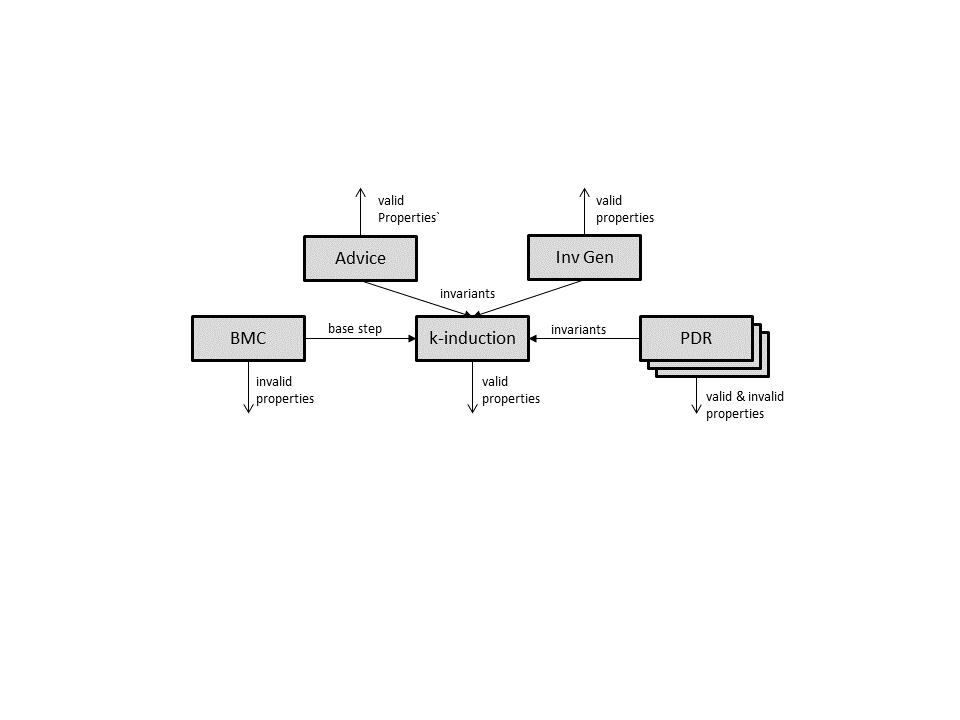
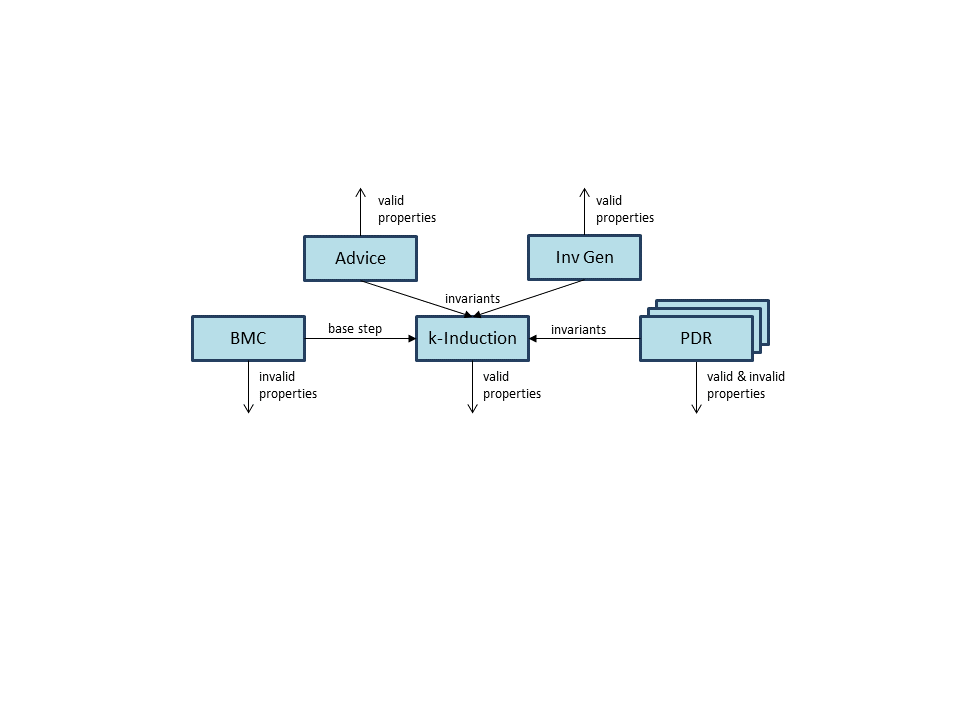
Final revisions

diff --git a/main.tex b/main.tex
@@ -82,7 +82,7 @@ Another important characteristic of \jkind is that is it designed to be integrat
 
 \begin{figure}
   \begin{center}
-    \includegraphics[clip,trim=140 220 100 140,scale=0.6]{engines.png}
+    \includegraphics[clip,trim=140 220 80 140,scale=0.6]{engines.png}
   \end{center}
   \vspace{-2em}
   \caption{\jkind engine architecture}
@@ -95,7 +95,24 @@ Another important characteristic of \jkind is that is it designed to be integrat
 prove properties, mimicking the design of \pkind and \kind 2~\cite{champion2016cav, kahsai2011pdmc}.
 Some engines are directly responsible for proving properties, others aid that effort by generating invariants, and still others are reserved for post-processing of proof or counterexample results. Each engine can be enabled or disabled separately based on the user's needs. The architecture of \jkind allows any engine to broadcast information to the other engines (for example, lemmas, proofs, counterexamples) allowing straightforward integration of new functionality.
 
-The solving engines in \jkind are:  (1) \textbf{Bounded Model Checking (BMC).} The BMC engine performs a standard iterative unrolling of the transition relation to find counterexamples and to serve as the base case of $k$-induction. The BMC engine guarantees that any counterexample it finds is minimal in length. (2) \textbf{$k$-induction.} The $k$-induction engine performs the inductive step of $k$-induction, possibly using invariants generated by other engines. \textbf{Invariant Generation.} The invariant generation engine uses a template-based invariant generation technique~\cite{kahsai2012nfm} using its own $k$-induction loop. (3) \textbf{Property Directed Reachability (PDR).} The PDR engine performs property directed reachability~\cite{een2011fmcad} using the implicit abstraction technique~\cite{cimatti2014tacas}. Unlike BMC and $k$-induction, each property is handled separately by a different PDR sub-engine. %Invariants generated as a side-product of PDR are shared with the $k$-induction process.
+The solving engines in \jkind are show in
+Figure~\ref{fig:engines}. The \textbf{Bounded Model Checking (BMC)}
+engine performs a standard iterative unrolling of the transition
+relation to find counterexamples and to serve as the base case of
+$k$-induction. The BMC engine guarantees that any counterexample it
+finds is minimal in length. The \textbf{$k$-Induction} engine performs
+the inductive step of $k$-induction, possibly using invariants
+generated by other engines. The \textbf{Invariant Generation} engine
+uses a template-based invariant generation
+technique~\cite{kahsai2012nfm} using its own $k$-induction loop. The
+\textbf{Property Directed Reachability (PDR)} engine performs property
+directed reachability~\cite{een2011fmcad} using the implicit
+abstraction technique~\cite{cimatti2014tacas}. Unlike BMC and
+$k$-induction, each property is handled separately by a different PDR
+sub-engine. Finally, the \textbf{Advice} engine produces invariants
+based on previous runs of \jkind as described in the next section.
+
+%Invariants generated as a side-product of PDR are shared with the $k$-induction process.
 
 Invariant sharing between the solvers (shown in Figure~\ref{fig:engines}) is an important part of the architecture.  In our internal benchmarking, we have found that implicit abstraction PDR performs best when operating over a single property at a time and without use of lemmas generated by other approaches.  On the other hand, the invariants generated by PDR and template lemma generation often allow $k$-induction, which operates on all properties in parallel, to substantially reduce the verification time required for models with large numbers of properties.  %As described in Section~\ref{sec:benchmarks}, \jkind\ is competitive with other tools
 
@@ -195,7 +212,7 @@ benchmarks slightly favored \kind2, and in~\cite{cimatti2014tacas}, \nuxmv was t
 %Many of the applications in this section make heavy use of \jkindapi.
 %
 
-(1) The {\em Specification and Analysis of Requirements} (\spear) tool is an open source tool for prototyping and analysis of requirements~\cite{fifarek2017nfm}.  Starting from a set of formalized requirements, \spear uses \jkind to determine whether or not the requirements meet certain {\em properties}.  It uses IVCs to create a traceability matrix between requirements and properties, highlighting unused requirements, over-constrained properties, and other common problems. \spear also uses \jkind with smoothing for test-case generation using the Unique First Cause criteria~\cite{whalen2006issta}.
+(1) The {\em Specification and Analysis of Requirements} (\spear) tool is an open-source tool for prototyping and analysis of requirements~\cite{fifarek2017nfm}.  Starting from a set of formalized requirements, \spear uses \jkind to determine whether or not the requirements meet certain {\em properties}.  It uses IVCs to create a traceability matrix between requirements and properties, highlighting unused requirements, over-constrained properties, and other common problems. \spear also uses \jkind with smoothing for test-case generation using the Unique First Cause criteria~\cite{whalen2006issta}.
 %
 %\spear captures
 %requirements in a way that is backed by the formal semantics of
@@ -213,7 +230,11 @@ benchmarks slightly favored \kind2, and in~\cite{cimatti2014tacas}, \nuxmv was t
 %test case. \spear uses smoothing in \jkind to ensure the resulting
 %test cases are simple and understandable.
 
-(2) The {\em Assume Guarantee Reasoning Environment} (\agree)~\cite{cofer2012nfm,QFCS15:backes,hilt2013} is an open-source compositional verification tool that proves properties of hierarchically-composed models in the Architectural Analysis and Design Language (AADL) language.  %\jkind as the default model checker for AGREE.
+(2) The {\em Assume Guarantee Reasoning Environment} (\agree) tool is
+an open-source compositional verification tool that proves properties
+of hierarchically-composed models in the Architectural Analysis and
+Design Language (AADL) language~\cite{cofer2012nfm,QFCS15:backes,hilt2013}.
+%\jkind as the default model checker for AGREE.
 %
 %\application{Assume Guarantee Reasoning Environment}{Open Source}
 %
@@ -235,19 +256,29 @@ component's contract. \agree also uses \jkind for test-case generation
 from component contracts.
 
 %\application{Static IMPerative AnaLyzer}{Open Source}
-(3) The {\em Static IMPerative AnaLyzer} (\simpal) is a tool for
-performing compositional reasoning over
-software~\cite{wagner2017spin}. \simpal is based on \limp, a \lustre-like imperative language with extensions for control flow elements, global variables, and a syntax for specifying preconditions, postconditions, and global variable interactions of
-preexisting components. \simpal translates \limp programs to an
-equivalent \lustre representation which is passed to \jkind to
-perform assume-guarantee reasoning, reachability, and viability
-analyses.
+(3) The {\em Static IMPerative AnaLyzer} (\simpal) tool is an
+open-source tool for compositional reasoning over
+software~\cite{wagner2017spin}. \simpal is based on \limp, a
+\lustre-like imperative language with extensions for control flow
+elements, global variables, and a syntax for specifying preconditions,
+postconditions, and global variable interactions of preexisting
+components. \simpal translates \limp programs to an equivalent \lustre
+representation which is passed to \jkind to perform assume-guarantee
+reasoning, reachability, and viability analyses.
 %The feedback from these analyses is used to refine the
 %program to ensure that the software functions as intended.
 
-\jkind is also used by two proprietary tools used by product areas within Rockwell Collins.  The first is a {\em Mode Transition Table} verification tool used for the complex state machines which manage flight modes of an aircraft.
-\jkind is used to check properties and generate tests for mode and transition coverage from \lustre models generated from the state machines.
-IVCs are used to establish traceability, i.e. which transitions are covered by which properties.  The second is a {\em Crew Alerting System} MC/DC test-case generation tool for a proprietary DSL used for messages and alerts to airplane pilots.  Smoothing is very important in this context as test cases need to be run on the actual hardware where
+(4) \jkind is also used by two proprietary tools used by product areas
+within Rockwell Collins.  The first is a {\em Mode Transition Table}
+verification tool used for the complex state machines which manage
+flight modes of an aircraft.  \jkind is used to check properties and
+generate tests for mode and transition coverage from \lustre models
+generated from the state machines.  IVCs are used to establish
+traceability, i.e. which transitions are covered by which properties.
+The second is a {\em Crew Alerting System} MC/DC test-case generation
+tool for a proprietary domain-specific language used for messages and
+alerts to airplane pilots.  Smoothing is very important in this
+context as test cases need to be run on the actual hardware where
 timing is not precisely controllable. Thus, test cases with a minimum
 of changes to the inputs are ideal.
 %
@@ -327,7 +358,7 @@ undocumented and performance comparisons are prohibited by the tool
 licenses, so it is not possible to compare performance on this aspect.
 
 Previous work has been done on improving the quality of
-counterexamples along various dimensions similar to the JKind notion
+counterexamples along various dimensions similar to the \jkind notion
 of {\em smoothing}, e.g. \cite{groce2005bmc, ravi2004tacas}. Our work
 is distinguished by its focus on minimizing the number of deltas in
 the input values. This metric has been driven by user needs and by our
@@ -358,7 +389,7 @@ feedback to users for both valid properties (using IVCs) and invalid
 properties (using smoothing). Second, it is supported across all major platforms and is
 straightforward to port due to its implementation in Java. Third, it
 is small, modular, and well-architected, allowing straightforward
-extension with new engines. Fourth, it is open source with a liberal
+extension with new engines. Fourth, it is open-source with a liberal
 distribution license (BSD), so it can be adapted for various purposes,
 as demonstrated by the number of tools that have incorporated it.
 
@@ -383,7 +414,10 @@ program under contract FA8750-12-9-0179.
 
 %  LocalWords:  BMC PDR IVC MaxSat Yices SpeAR SIMPAL Gryphon UI JVM
 %  LocalWords:  JKindApi natively Kind IMPerative AnaLyzer IVCs IC GB
-%  LocalWords:  postconditions DARPA HACMS NuXmv Zustre VC
+%  LocalWords:  postconditions DARPA HACMS NuXmv Zustre VC SMT CVC ic
 %  LocalWords:  architected CAV benchmarking superset Xeon DSL SMV
-%  LocalWords:  ESBMC DepthK VVT CPAchecker CPROVER Synopsys
-%  LocalWords:  Acknowledgements
+%  LocalWords:  ESBMC DepthK VVT CPAchecker CPROVER Synopsys MathSAT
+%  LocalWords:  Acknowledgements traceability SMTInterpol invariants
+%%  LocalWords:  Reachability reachability JKind runtime invar AADL
+%%  LocalWords:  compositional liveness
+
